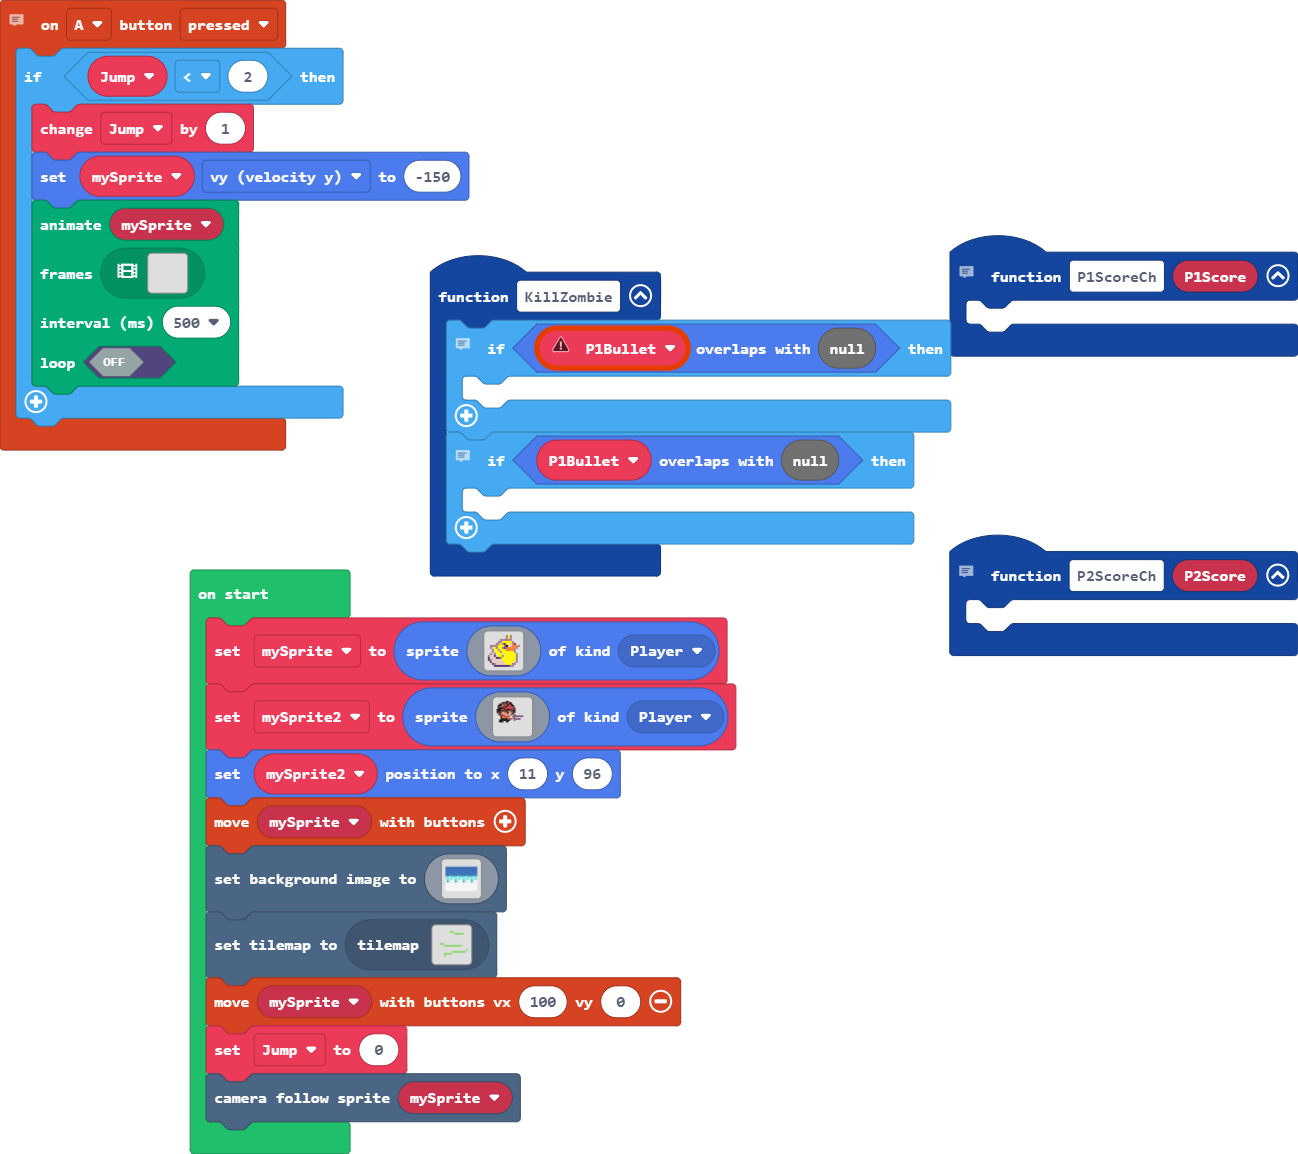
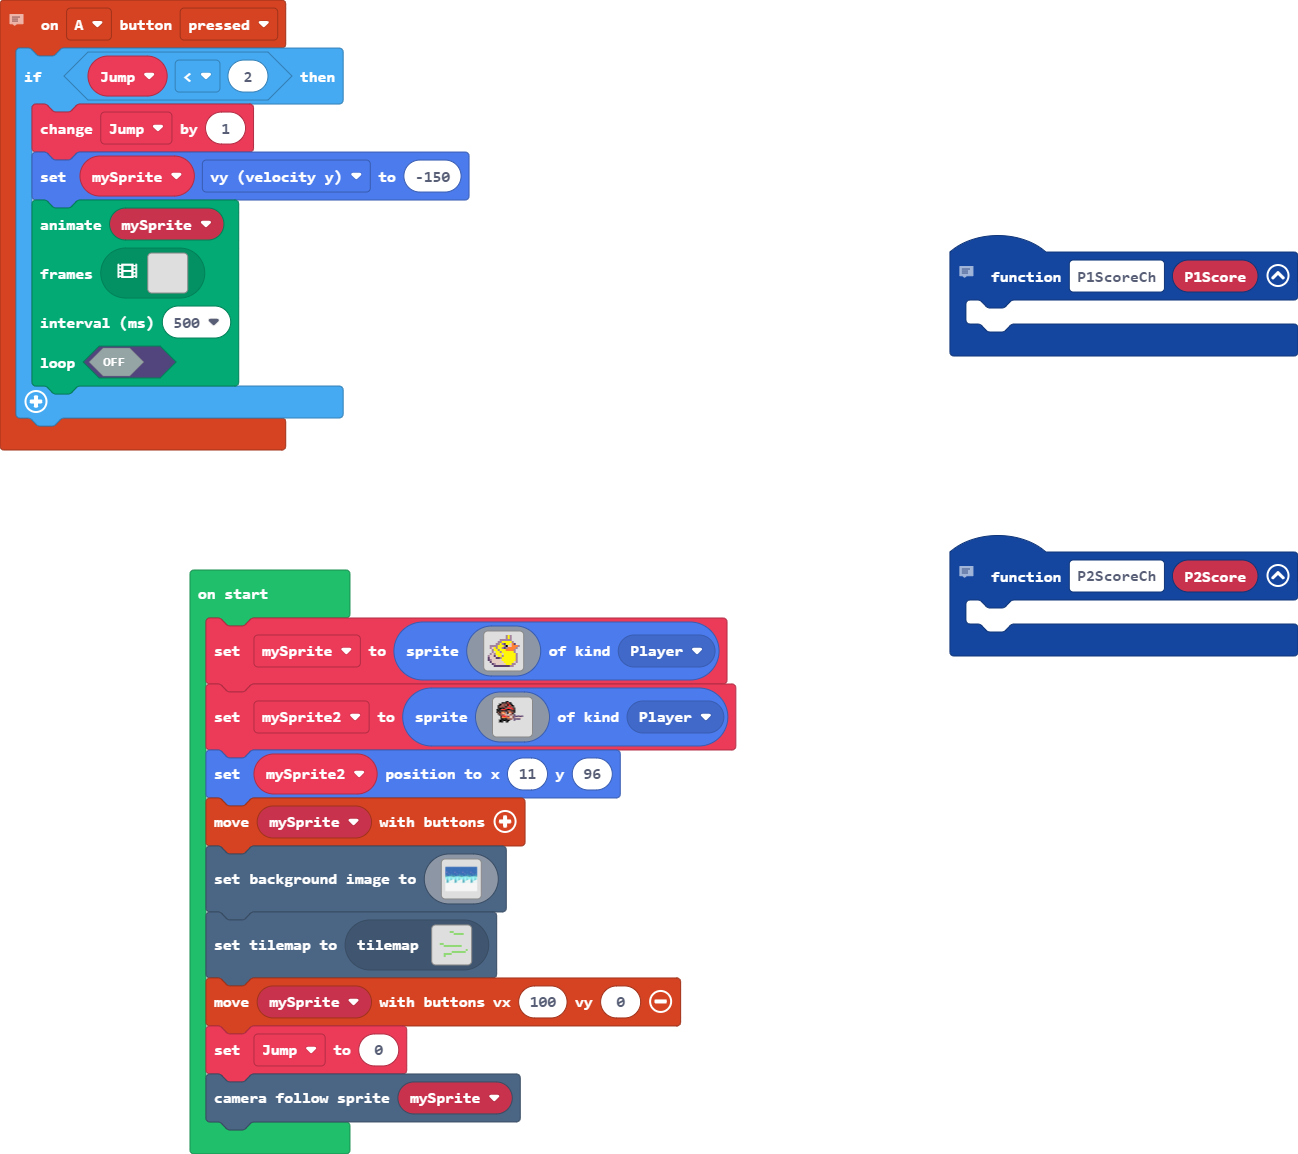
Update main.blocks, main.ts

Changed region(s): [[0.3082, 0.2184, 0.7396, 0.4991], [0.9245, 0.4679, 0.9553, 0.5303], [0.7704, 0.4991, 0.8012, 0.5303]]

diff --git a/main.ts b/main.ts
@@ -36,17 +36,6 @@ controller.A.onEvent(ControllerButtonEvent.Pressed, function () {
 function P2ScoreCh (P2Score: any[]) {
 	
 }
-function KillZombie () {
-    let P1Bullet: Sprite = null
-    // ZType1
-    if (P1Bullet.overlapsWith(null)) {
-    	
-    }
-    // ZType2
-    if (P1Bullet.overlapsWith(null)) {
-    	
-    }
-}
 let Jump = 0
 let mySprite: Sprite = null
 mySprite = sprites.create(img`
